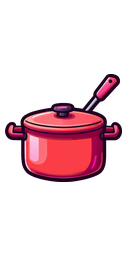
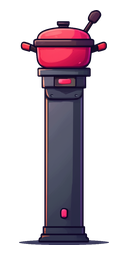
Privacy policy: Ranked (Play Games sign-in, ranked server, deletion); new Galley art

diff --git a/privacy/index.html b/privacy/index.html
@@ -29,49 +29,58 @@ footer a { color: var(--dim); margin-right: 14px; }
 </style></head>
 <body><header class="top"><img src="../icon.png" alt=""><a class="brand" href="../">Sonar Lock</a></header>
 <main><h1>Privacy Policy</h1>
-<p><strong>Sonar Lock</strong>, last updated 2026-10-27</p>
+<p><strong>Sonar Lock</strong>, last updated 2026-10-30</p>
 <p>Published by SC DREAMWEAVER SRL (Constanța, Romania; registration J2016002906134, CUI 36847392), developed by InAllHonesty.</p>
 <p>This policy explains what information the game uses, why, and what you can do about it. We keep it short and honest.</p>
 <h2>In short</h2>
 <ul>
-<li><strong>No sign-up, no name, no email, no contacts, no precise location.</strong> The game never asks for them.</li>
+<li><strong>No sign-up of our own, no name, no email, no contacts, no precise location.</strong> You sign in with Google Play Games, and we keep only its player ID, never your gamer tag, name or email.</li>
 <li><strong>Optional:</strong> anonymous usage statistics (only if you say yes) and personalised ads (only where you agree, through Google's form).</li>
-<li><strong>Needed for the game to work online:</strong> an anonymous ID created by the game, your submarine builds (other players fight them), and a backup of your progress.</li>
+<li><strong>Needed for the game to work online:</strong> an account ID linked to your Play Games player ID, your submarine builds (other players fight them), a backup of your progress, and, if you play Ranked, your rank and ranked patrols.</li>
 <li><strong>Ads only when you choose to watch one</strong> for a bonus.</li>
 <li><strong>Reminders and review requests stay on your phone.</strong> We receive nothing from them.</li>
 </ul>
-<h2>1. The anonymous ID</h2>
-<p>To use our online features, the game creates an <strong>anonymous account</strong> with <strong>Google Firebase Authentication</strong> (Google Ireland Limited) the first time it goes online. It is a random ID. It isn't linked to your name, email, phone number or Google account, and there is no password. The ID is stored on your phone. When it is created and renewed, Google sees your device's IP address, as with any internet request.</p>
+<h2>1. Your account ID (Google Play Games)</h2>
+<p>The game signs you in with <strong>Google Play Games</strong> (Google Ireland Limited), Google's own game profile, the first time you start it. We don't run a sign-up of our own and there is no password. Google tells our server your <strong>Play Games player ID</strong>, a number Google made for Sonar Lock. Our server turns it into your account ID ("pgs_" followed by that number) and signs you in to <strong>Google Firebase Authentication</strong> with it. <strong>We don't receive or keep your gamer tag, your name, your email or your Google account details.</strong> When you sign in, Google and our server see your device's IP address, as with any internet request.</p>
 <ul>
-<li><strong>Why:</strong> so our server knows which shared builds and which cloud save belong to the same game installation, and so nobody else can write to them.</li>
+<li><strong>Why:</strong> so our servers know which shared builds, which cloud save and which ranked records are yours, so nobody else can write to them, and so your progress and rank follow you to a new phone.</li>
 <li><strong>Legal basis (GDPR):</strong> needed to provide the online game you use (contract).</li>
-<li><strong>If you uninstall the game,</strong> the ID is gone from your phone. Data left on our server can no longer be linked to your new installation.</li>
+<li><strong>If you uninstall the game,</strong> the ID stays tied to your Play Games profile: when you sign in again, your online data is yours again. To remove it, use Delete my online data (section 12).</li>
 </ul>
 <h2>2. Your submarine builds are shared with other players</h2>
 <p>Other players fight copies of your submarine, and you fight theirs. From round 6 on, after each battle, the game sends the build you fought with to our server (Google Cloud Firestore) and downloads other players' builds.</p>
 <ul>
-<li><strong>What's sent:</strong> the items and where they sit, the round, your captain and their level, the game version, your anonymous ID and the time. <strong>No name, email or advertising ID.</strong> Other players see a made-up call sign, never anything that identifies you.</li>
+<li><strong>What's sent:</strong> the items and where they sit, the round, your captain and their level, the game version, your account ID and the time. <strong>No name, email or advertising ID.</strong> Other players see a made-up call sign, never anything that identifies you.</li>
 <li><strong>Who sees it:</strong> other players, as opponents.</li>
 <li><strong>How long:</strong> at most <strong>12 months</strong>. Builds from older versions of the game are removed sooner, once an update changes the game's balance. An automatic clean-up deletes them every day.</li>
-<li><strong>Limit:</strong> to keep the shared service working for everyone, our server counts how many builds each anonymous ID shares per day (at most 50). The count holds only the day and the number, and is deleted with the rest of your online data.</li>
+<li><strong>Limit:</strong> to keep the shared service working for everyone, our server counts how many builds each account ID shares per day (at most 50). The count holds only the day and the number, and is deleted with the rest of your online data.</li>
 <li><strong>Legal basis (GDPR):</strong> part of how the game is played (contract).</li>
 </ul>
 <h2>3. Cloud save</h2>
-<p>The game keeps a copy of your progress on our server (Google Cloud Firestore) so a broken or reset phone doesn't lose it. The copy is tied to your anonymous ID.</p>
+<p>The game keeps a copy of your progress on our server (Google Cloud Firestore) so a broken or reset phone doesn't lose it. The copy is tied to your account ID.</p>
 <ul>
-<li><strong>What's sent:</strong> your game profile (currencies, levels, unlocks, quests, collection, settings saved in the profile, and the history of your last patrols), daily backup copies of it, <strong>your phone's model name</strong> (for example "SM-G965F", so you can tell copies apart when asked "which progress?"), and a record of each purchase (see section 4).</li>
-<li><strong>Who sees it:</strong> only your installation (our database rules allow nobody else to read it) and us, if you write to us for help.</li>
+<li><strong>What's sent:</strong> your game profile (currencies, levels, unlocks, quests, collection, settings saved in the profile, and the history of your last patrols), daily backup copies of it, <strong>your phone's model name</strong> (for example "SM-G965F", so you can tell copies apart when asked "which progress?"), and a record of each purchase (see section 5).</li>
+<li><strong>Who sees it:</strong> only you (our database rules allow nobody else to read it), our ranked server when you start a ranked patrol (section 4), and us, if you write to us for help.</li>
 <li><strong>How long:</strong> until you ask us to delete it. Backups: the newest 3 daily copies and 2 others; older ones are deleted automatically.</li>
 <li><strong>Legal basis (GDPR):</strong> needed to provide the backup the game offers (contract).</li>
 </ul>
-<h2>4. Purchases</h2>
+<h2>4. Ranked</h2>
+<p>Ranked patrols are played against our own <strong>ranked server</strong>, a computer we run on <strong>Oracle Cloud</strong> (Oracle). It checks every ranked battle itself, so nobody can cheat their way up.</p>
+<ul>
+<li><strong>What it keeps about you:</strong> your account ID; your <strong>call sign</strong> (a made-up name our ranked server creates from your ID, shown on the leaderboard and to the players you meet, never your gamer tag or anything the game sends); your <strong>rank, points and a hidden matching rating</strong>; the highest rank you reached each season (for the season rewards); your <strong>ranked patrols</strong> (the moves you made, the wins and defeats); <strong>your ranked submarines</strong>, which other ranked players fight like shared builds; and a short <strong>battle record</strong> (your rank, whether the opponent was a computer player, and whether you won) used to keep the computer opponents fair.</li>
+<li><strong>What it checks:</strong> when you start a ranked patrol it reads your cloud save (section 3) to see which captains, levels and Blueprints you own and when the cloud save was first made, keeps a short record of those counts, and asks Google Play whether each purchase in it was real, was made on your account and wasn't refunded, and whether your Admiralty Commission is active. Every hour it also asks Google Play which purchases of the game were refunded or charged back; a refunded purchase no longer counts for Ranked. When you watch an ad for a ranked help, Google AdMob tells our server that the ad was watched (your account ID and which patrol and round), so the help counts.</li>
+<li><strong>Who sees it:</strong> other players see your call sign, rank and points on the leaderboard (the top 100), and your submarine, call sign and rank when they fight it. Nobody sees your account ID.</li>
+<li><strong>How long:</strong> your ranked submarines, battle records and finished ranked patrols (their moves and the opponents met, which are kept as scrambled codes, never other players' IDs) are kept for the <strong>current and the previous season</strong> (a season is 8 weeks), then deleted automatically. Your rank, points and unclaimed season rewards are kept while you play, until you delete them. The ranked server's logs, which can show your account ID (for example when a check blocks Ranked), are kept for <strong>at most 14 days</strong>. Backups of the ranked server are encrypted before they leave the server (only we hold the key) and kept for a week; the copies on the server itself are kept for 3 days.</li>
+<li><strong>Legal basis (GDPR):</strong> needed to provide the ranked game you choose to play (contract), and our legitimate interest in fair play (the cheating checks).</li>
+</ul>
+<h2>5. Purchases</h2>
 <p>Gold packs, the starter pack and the Admiralty Commission are sold through <strong>Google Play Billing</strong>. Google handles the payment. <strong>We never see your card or bank details, your name or your email.</strong></p>
 <ul>
-<li><strong>What we keep:</strong> for each purchase, the product, Google's purchase token, the time and the Gold given. This is kept on your phone and in your cloud save, so a purchase is never lost or given twice.</li>
+<li><strong>What we keep:</strong> for each purchase, the product, Google's purchase token, the time and the Gold given. Each purchase also carries a scrambled form of your account ID (a hash; it can't be turned back into the ID), which Google keeps with the purchase so our ranked server can check the purchase was made on your account. This is kept on your phone and in your cloud save, so a purchase is never lost or given twice. If you play Ranked, our ranked server also keeps every purchase token it checks with Google (the ones Google confirmed, the ones it refused, and Admiralty Commission tokens), with the product and the Gold it counted, so a purchase counts once and only for the account that made it. They are kept while you play Ranked; deleting your online data replaces them with the scrambled records in section 12.</li>
 <li><strong>Legal basis (GDPR):</strong> needed to deliver what you bought (contract), and our legal duty to keep sales records.</li>
 <li><strong>Refunds and payment questions</strong> are handled by Google Play under its own terms.</li>
 </ul>
-<h2>5. Anonymous statistics (only if you agree)</h2>
+<h2>6. Anonymous statistics (only if you agree)</h2>
 <p>The game asks once whether you want to share anonymous statistics, and you can change your answer any time in <strong>Options → Share anonymous statistics</strong>. Until you say yes, nothing is collected. Statistics are switched off inside the app until then.</p>
 <p>When you agree, the game uses <strong>Google Analytics for Firebase</strong> (Google Ireland Limited) to record:</p>
 <ul>
@@ -87,7 +96,7 @@ footer a { color: var(--dim); margin-right: 14px; }
 <li><strong>Retention:</strong> 14 months, then deleted.</li>
 <li><strong>Legal basis (GDPR):</strong> your consent, which you can withdraw any time in Options. Withdrawing stops collection from then on.</li>
 </ul>
-<h2>6. Ads</h2>
+<h2>7. Ads</h2>
 <p>The game shows <strong>only ads you choose to watch</strong> for a bonus (for example double Supplies or a quest refresh). Ads are never forced, and a player who never watches one still gets every reward that isn't an ad bonus.</p>
 <p>Ads come from <strong>Google AdMob</strong> (Google Ireland Limited). When ads may be shown, Google receives:</p>
 <ul>
@@ -101,29 +110,35 @@ footer a { color: var(--dim); margin-right: 14px; }
 <ul>
 <li><strong>Legal basis (GDPR):</strong> your consent, collected by Google's form where the law requires it.</li>
 </ul>
-<h2>7. Phone reminders (only if you turn them on)</h2>
+<h2>8. Phone reminders (only if you turn them on)</h2>
 <p>If you say yes to reminders (or turn them on in Options → Reminders), the game asks Android to show at most one notification a day, for up to 3 days, when your daily reward is ready. They're scheduled <strong>on your phone</strong>. Nothing about them is sent to us or to anyone else. Turn them off in Options or in Android's notification settings.</p>
-<h2>8. Review requests</h2>
+<h2>9. Review requests</h2>
 <p>After some won patrols the game may ask Google Play to show its rating card. Google decides whether it appears. If you leave a review, it goes to Google Play under your Google account, <strong>under Google's terms</strong>. We never learn whether you rated the game. The game remembers only when it asked, on your phone.</p>
-<h2>9. What stays on your phone</h2>
-<p>Your progress, your settings and a patrol in progress are saved on your phone. Uninstalling the game or clearing its storage deletes them. A copy of your progress (not a patrol in progress) is also kept in the cloud (section 3).</p>
-<h2>10. Children</h2>
+<h2>10. What stays on your phone</h2>
+<p>Your progress, your settings and a patrol in progress are saved on your phone. Uninstalling the game or clearing its storage deletes them. A copy of your progress (not a patrol in progress) is also kept in the cloud (section 3). A ranked patrol in progress is kept by our ranked server (section 4).</p>
+<h2>11. Children</h2>
 <p>The game is not directed at children under 13, and we don't knowingly collect information from them. If you believe a child has sent us information, write to us and we'll delete it.</p>
-<h2>11. Your rights and deleting your data</h2>
+<h2>12. Your rights and deleting your data</h2>
 <p>Under the GDPR you can ask us for access to, correction of or <strong>deletion</strong> of data about you. You can also object, or withdraw consent at any time.</p>
 <ul>
 <li><strong>Statistics:</strong> turn them off in Options. To have past statistics deleted, write to us with the date you installed the game. They aren't linked to a name, so that helps us find them.</li>
-<li><strong>Shared builds and cloud save:</strong> in the game, open <strong>Options → Delete my online data</strong>. After you confirm, it deletes your shared builds, your cloud save (with its backups and purchase records) and your anonymous ID from our server straight away. Your progress on your phone stays. Copies of your builds that other players' games already downloaded stay on their phones until their game replaces them (it keeps only the latest few per round). If you keep playing online afterwards, the game creates a new anonymous ID. You can also write to us: copy your ID from <strong>Options → Your player ID</strong> and include it, so we can find your data.</li>
+<li><strong>Shared builds, cloud save and Ranked:</strong> in the game, open <strong>Options → Delete my online data</strong>. After you confirm, it deletes your shared builds, your cloud save (with its backups and purchase records), your ranked records (rank, points, rating, ranked patrols and submarines, battle records, season rewards and your place on the leaderboard) and your account from our servers straight away. Your progress on your phone stays. If one of our servers can't be reached, nothing is skipped: the game says so and you can try again. On the ranked server, players who fought your submarine keep no trace of your account: you are taken out of their lists of opponents met, and your call sign is replaced with "sailor" in what the server keeps of their patrols. Your submarine stays only in the last answer of a ranked patrol another player is still playing, which the server must be able to send again (it goes when that patrol ends, and with the patrol at the latest after the next season). Copies of your builds that other players' games already downloaded stay on their phones until their game replaces them (it keeps only the latest few per round), and so does what their game shows of past battles. The ranked server's encrypted weekly backups age out within a week; if we ever restore one, your deletion is applied again (the server keeps a log of deletions for 14 days, holding only a scrambled form of the account and the time). If you keep playing online afterwards, you start again with no online data. You can also write to us: copy your ID from <strong>Options → Your player ID</strong> and include it, so we can find your data.</li>
+<li><strong>What deleting keeps (scrambled anti-cheat records):</strong> so that deleting can't be used to cheat Ranked, the ranked server keeps a few records that <strong>hold no account ID and no name</strong>. They are pseudonymised, not anonymous: they are scrambled records we can match only if the same account comes back:</li>
+<li>for <strong>each purchase code the ranked server checked</strong> (counted, refused, or an Admiralty Commission): a scrambled form of the purchase code and a scrambled form of your account (salted hashes; neither can be turned back into your ID), the product and the Gold it gave;</li>
+<li><strong>only while an account is blocked</strong> for suspicious activity: a scrambled account marker and the last game counts that passed the check (how many captains, levels and Blueprints).</li>
+</ul>
+<p>They only let the server recognise the same purchase, or the same blocked account, if it comes back. <strong>How long:</strong> they are deleted <strong>2 years after the account's last ranked activity</strong> (each return to Ranked counts as activity). <strong>Legal basis:</strong> our legitimate interest in fair play.</p>
+<ul>
 <li><strong>Everything on your phone:</strong> uninstall the game or clear its storage.</li>
 </ul>
 <p>You also have the right to complain to your data protection authority (in Romania: ANSPDCP, www.dataprotection.ro).</p>
-<h2>12. Who processes the data</h2>
-<p>Google (Firebase Authentication, Cloud Firestore, Google Analytics for Firebase, AdMob, Play Billing) processes data for us under its terms. Google may process data outside the EU under the EU's standard contractual clauses. We don't sell data, and we share it with nobody else.</p>
-<h2>13. Security</h2>
-<p>Everything the game sends goes over encrypted connections (HTTPS). Our database rules allow each installation to read and write only its own save and purchases, and to add (never change) its own shared builds.</p>
-<h2>14. Changes</h2>
+<h2>13. Who processes the data</h2>
+<p>Google (Play Games, Firebase Authentication, Cloud Firestore, Google Analytics for Firebase, AdMob, Play Billing) processes data for us under its terms. Oracle hosts our ranked server and its backups (Oracle Cloud) under its terms. Google and Oracle may process data outside the EU under the EU's standard contractual clauses. We don't sell data, and we share it with nobody else.</p>
+<h2>14. Security</h2>
+<p>Everything the game sends goes over encrypted connections (HTTPS). Our database rules allow each account to read and write only its own save and purchases, and to add (never change) its own shared builds. The ranked server accepts only signed-in requests and keeps its secrets on its own disk.</p>
+<h2>15. Changes</h2>
 <p>We'll update this page when the game changes what it does with information, and change the date at the top. Big changes will also be announced in the game.</p>
-<h2>15. Who is responsible</h2>
+<h2>16. Who is responsible</h2>
 <p>The controller is SC DREAMWEAVER SRL, Str. Panselei 6A, bl. C2A, ap. 13, Constanța 900598, Romania.</p>
 <h2>Contact</h2>
 <p>Questions or requests: sonarlock.game@gmail.com</p><footer><a href="../privacy/">Privacy Policy</a><a href="../terms/">Terms of Use</a><a href="../consent/">Consent settings</a><a href="mailto:sonarlock.game@gmail.com">Contact</a><br>&copy; SC DREAMWEAVER SRL &middot; developed by InAllHonesty</footer></main>
